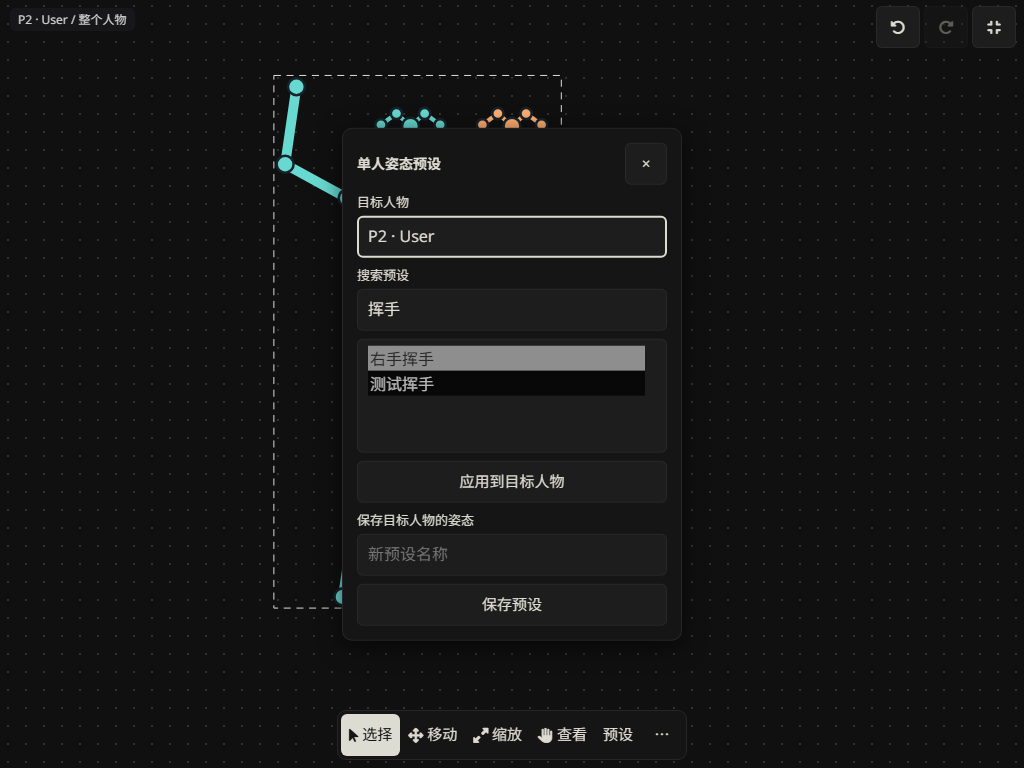
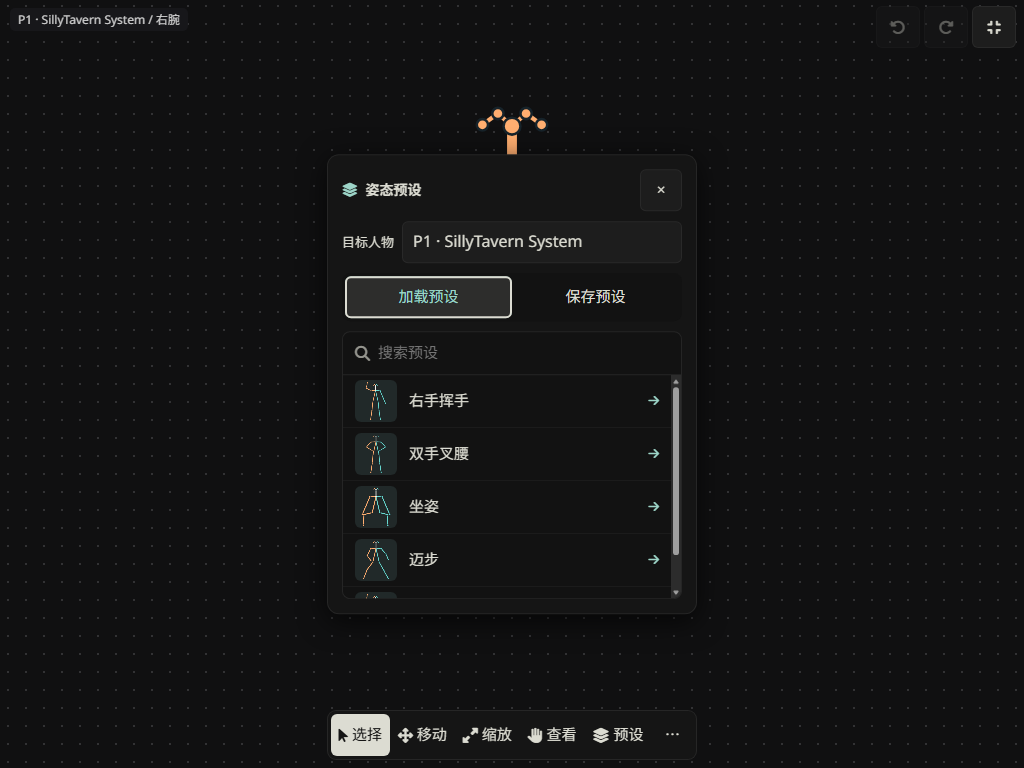
Update preset workflow documentation and interface screenshots

diff --git a/README.md b/README.md
@@ -52,9 +52,9 @@ Windows 创建符号链接需要启用开发者模式或使用有相应权限的
 
 每个聊天在内存中保留自己的姿态画布。关闭窗口或附加到消息后，再次打开可继续编辑、撤销和还原。刷新页面或关闭「可视化输入」工具会释放这些草稿。「⋯ → 新建画布」经确认后将当前聊天的画布恢复为一个默认人物，同时重置注释、发送档位、视图和编辑历史。
 
-在画板工具栏点「预设」，选择目标人物，输入名称保存其姿态，或搜索已有预设并点「应用到目标人物」。应用时对齐髋部并保持所有关节在画布内，整次应用可一步撤销。预设仅保存名称和单人的 18 个关节坐标，可跨聊天使用。初始提供自然站立、双臂平举、右手挥手、双手叉腰、坐姿和迈步。[桌面预设工具](docs/screenshots/pose-presets-desktop.png) · [320 像素窄屏](docs/screenshots/pose-presets-mobile.png)
+在画板工具栏点「预设」，选择目标人物。「加载预设」支持按名称搜索，点带骨架缩略图的列表行即可应用；「保存预设」显示目标人物的当前姿态，填写名称后点「保存到预设库」。应用时对齐髋部并保持所有关节在画布内，整次应用可一步撤销。预设仅保存名称和单人的 18 个关节坐标，可跨聊天使用。初始提供自然站立、双臂平举、右手挥手、双手叉腰、坐姿和迈步。[桌面预设工具](docs/screenshots/pose-presets-desktop.png) · [窄屏加载](docs/screenshots/pose-presets-mobile.png) · [窄屏保存](docs/screenshots/pose-presets-save.png)
 
-在「可视化输入 → 设置 → 姿态预设管理」勾选多项可批量删除或导出 JSON，也可一次导入多个 JSON 文件。相同名称和坐标会去重；同名但坐标不同或文件无效时，整批取消导入。点击设置窗口的「保存」应用库变更。[预设管理截图](docs/screenshots/pose-presets-settings.png)
+在「可视化输入 → 设置 → 姿态预设管理」按名称搜索并勾选多项可批量删除或导出 JSON。「全选结果」只选择当前可见项，改变搜索条件会取消隐藏项的勾选。列表底部可一次导入多个 JSON 文件。相同名称和坐标会去重；同名但坐标不同或文件无效时，整批取消导入。点击设置窗口的「保存」应用库变更。[预设管理截图](docs/screenshots/pose-presets-settings.png)
 
 画板工具栏的「⋯」可添加、改名或删除人物，编辑注释、选择发送档位和附加到消息。普通窗口也可从场景树进行选择和管理。树内用上下键导航、左右键展开或折叠，Enter 选择。[全屏桌面截图](docs/screenshots/pose-board-desktop.png) · [全屏窄屏截图](docs/screenshots/pose-board-mobile.png)
 
